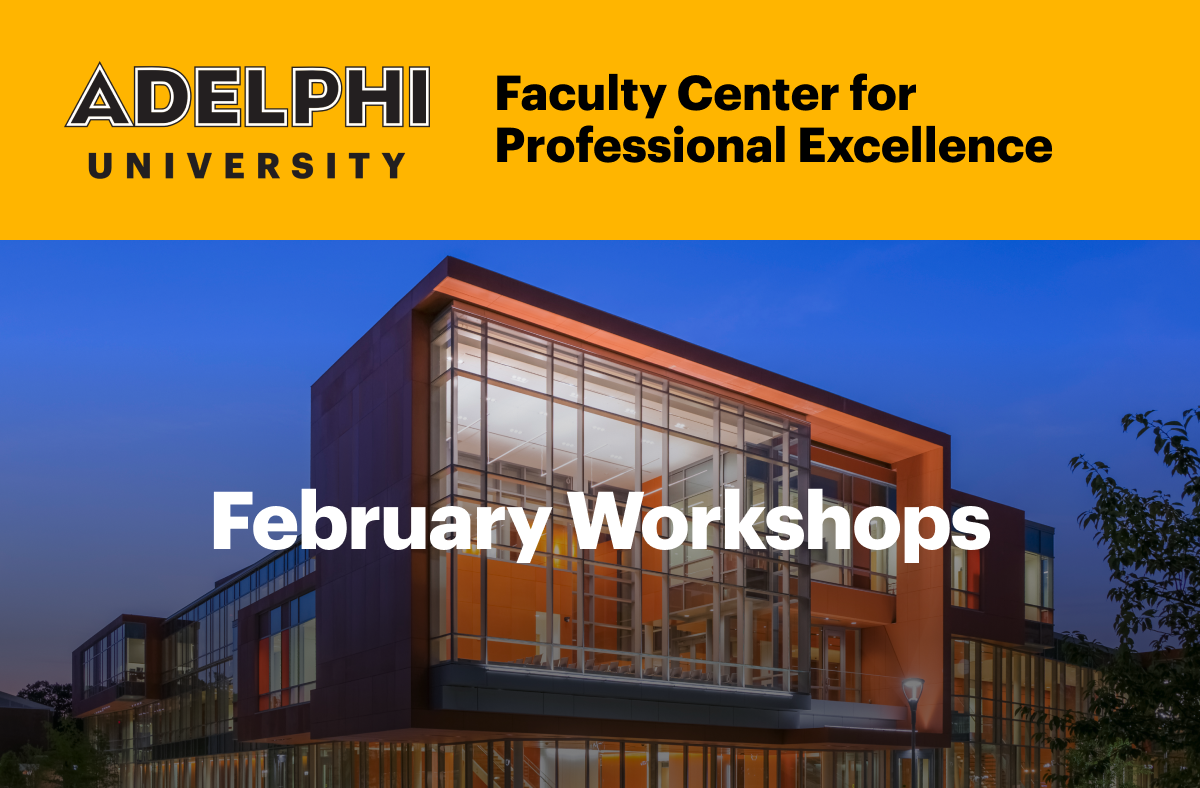
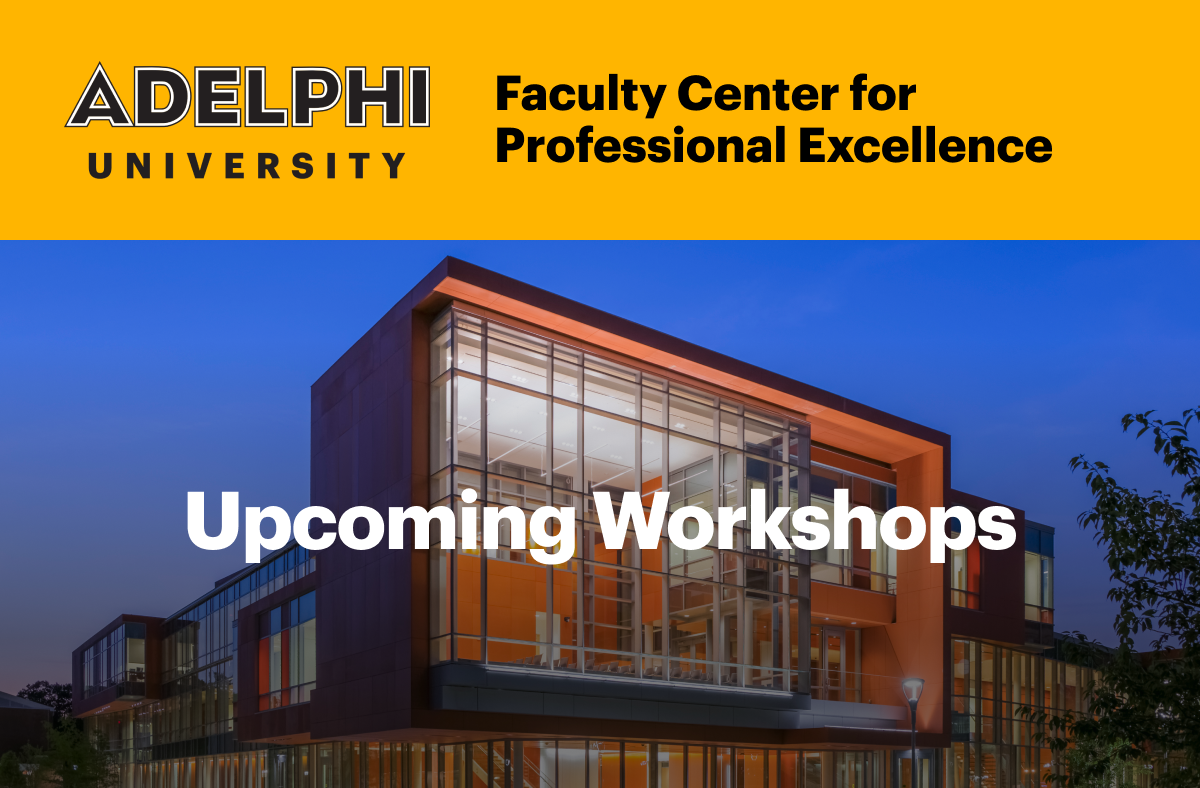
changed titles to old sheet content

Changed region(s): [[0.1542, 0.6091, 0.8633, 0.731]]

diff --git a/Workshops_February 25.html b/Workshops_February 25.html
@@ -46,7 +46,7 @@
               <table width="100%" border="0" cellpadding="0" cellspacing="0" class="container">
                 <tr>
                   <td align="center" style="padding: 0;">
-                    <img src="https://ucarecdn.com/f0478daf-9274-4de7-9bae-1804c537e8e9/-/resize/1200x/" alt="Adelphi University Logo and November workshops header image" style="width: 100%">
+                    <img src="https://ucarecdn.com/324cce82-e857-4836-95bf-a0d5fa575fc4/-/resize/1200x/" alt="Adelphi University Logo and November workshops header image" style="width: 100%">
                   </td>
                 </tr>
               </table>
@@ -72,13 +72,56 @@
               <p>Please refer to the <a href="https://www.adelphi.edu/academics/academic-calendar/" target="_blank">Academic Calendar</a> for important dates, and check <a href="https://www.adelphi.edu/events/?filters[tag]=faculty-center-for-professional-excellence" target="_blank">FCPE’s event page</a> regularly for updates and new workshops.</p>
 
               <p>We look forward to seeing you at our workshops and around Alumnae, and supporting you throughout the semester.</p>
-              <hr>
               <!--End Blurb--->
 
+                               <!--Begin ID Open Hours Section -->
+                               <hr>
+                               <h1>Open Hours</h1>
+                               <h2 style="line-height: 1.5em;">Unpacking the Why: Open Hours with Instructional Designers</h2>
+                               <p>
+                                 Join us for open-hour sessions with FCPE Instructional Designers and bring your pedagogical questions to the table. Our instructional designers collaborate with faculty as trusted partners, diving deep into the "whys" behind best practices to strengthen teaching and learning. Whether you're teaching in-person, online, or in a hybrid format, gain valuable insights on engaging students through thoughtful assignment and assessment design, and learn more about if, when, and how to choose the most effective educational technology tools. We’ll discuss the reasoning behind these decisions and share strategies for creating effective, inclusive learning experiences. Bring your questions and join the conversation!
+                              </p>
+             
+                              <h4 style="display: block;">Thursday, January 23 &#124; 12:00 PM &#124; Hybrid
+                              </h4>
+             
+                              <p>Andrew MacDonald, Instructional Designer
+                               <br>
+                               Marilena Orfanos, Instructional Designer
+                              </p>
+             
+                              <h4>Tuesday, January 28 &#124; 11:00 AM &#124; Hybrid</h4>
+                              <p>
+                               Jen Southard, Instructional Designer
+                               <br>
+                               Andrew MacDonald, Instructional Designer
+                              </p>
+             
+                              <h4>Thursday, January 30 &#124; 2:00 PM &#124; Virtual</h4>
+                              <p>
+                               Rui Huang, Instructional Designer</p>
+             
+                              <h4>Thursday, February 6th &#124; 11:00 AM &#124; Hybrid</h4>
+                              <p>Marilena Orfanos, Instructional Designer</p>
+             
+                              <h4>Friday, February 7 &#124; 1:00 PM &#124; Hybrid</h4>
+                              <p>
+                               Kevin Mobbs, Sr. Instructional Designer
+                               <br>
+                               Jen Southard, Instructional Designer
+                              </p>
+             
+                              <h4>Monday, February 17 &#124; 1:00 PM &#124; Virtual</h4>
+                              <p>Kevin Mobbs, Sr. Instructional Designer</p>
+             
+             
+                               <!--End ID Open Hours section -->
+
                <!--Begin Workshop Section -->
+               <hr>
                <h1>Workshops</h1>
                <h2 style="line-height: 1.5em;">OSCQR: Adelphi's Course Design Rubric</h2>
-               <h3>Friday, January 17, 2025 &#124; 10:00 AM</h3>
+               <h3>Friday, January 17 &#124; 10:00 AM</h3>
                <p>Virtual</p>
                <p><a href="https://docs.google.com/forms/d/e/1FAIpQLSeWbDnGC1uFXxjeRKEZeOSM2NJqijoKPyHHlKsl563PWMUoeQ/viewform?usp=sf_link&entry.2624655=OSCQR: Adelphi's Course Design Rubric  | January 17, 2025; 10:00 AM  [Virtual]" target="_blank" style="color: #ffffff; background-color: #000000; padding: .5rem 1rem; border-style: solid; border-color: #FFB500; border-width: .25rem; text-decoration: none; font-weight: bold; border-radius: .5em; box-shadow: 4px 4px 0 #9F9081;">Register</a>
                </p>
@@ -95,7 +138,7 @@
                  <!--Begin Workshop Section -->
                  <hr>
                  <h2 style="line-height: 1.5em;">Start-of-the-Semester Checklist</h2>
-                 <h3>Wednesday, January 22, 2025 &#124; 10:00 AM</h3>
+                 <h3>Wednesday, January 22 &#124; 10:00 AM</h3>
                  <p>Hybrid</p>
                  <!--<p><a href="https://docs.google.com/forms/d/e/1FAIpQLSeWbDnGC1uFXxjeRKEZeOSM2NJqijoKPyHHlKsl563PWMUoeQ/viewform?usp=sf_link&entry.2624655=OSCQR: Adelphi's Course Design Rubric  | January 17, 2025; 10:00 AM  [Virtual]" target="_blank" style="color: #ffffff; background-color: #000000; padding: .5rem 1rem; border-style: solid; border-color: #FFB500; border-width: .25rem; text-decoration: none; font-weight: bold; border-radius: .5em; box-shadow: 4px 4px 0 #9F9081;">Register</a>
                  </p>-->
@@ -109,8 +152,8 @@
 
                  <!--Begin Workshop Section -->
                  <hr>
-                 <h2 style="line-height: 1.5em;">Moodle Gradebook</h2>
-                 <h3>Wednesday, January 22, 2025 &#124; 10:00 AM</h3>
+                 <h2 style="line-height: 1.5em;">Moodle Gradebook: Seamless from the Start</h2>
+                 <h3>Wednesday, January 22 &#124; 10:00 AM</h3>
                  <p>Hybrid</p>
                  <!--<p><a href="https://docs.google.com/forms/d/e/1FAIpQLSeWbDnGC1uFXxjeRKEZeOSM2NJqijoKPyHHlKsl563PWMUoeQ/viewform?usp=sf_link&entry.2624655=OSCQR: Adelphi's Course Design Rubric  | January 17, 2025; 10:00 AM  [Virtual]" target="_blank" style="color: #ffffff; background-color: #000000; padding: .5rem 1rem; border-style: solid; border-color: #FFB500; border-width: .25rem; text-decoration: none; font-weight: bold; border-radius: .5em; box-shadow: 4px 4px 0 #9F9081;">Register</a>
                  </p>-->
@@ -125,7 +168,7 @@
                   <!--Begin Workshop Section -->
                   <!--<hr>
                   <h2 style="line-height: 1.5em;">General Tech Tutorial</h2>
-                  <h3>Monday, February 10th, 2025, &#124; 1:00 PM</h3>
+                  <h3>Monday, February 10th, &#124; 1:00 PM</h3>
                   <p>Virtual</p>
                   <p><a href="https://docs.google.com/forms/d/e/1FAIpQLSeWbDnGC1uFXxjeRKEZeOSM2NJqijoKPyHHlKsl563PWMUoeQ/viewform?usp=sf_link&entry.2624655=OSCQR: Adelphi's Course Design Rubric  | January 17, 2025; 10:00 AM  [Virtual]" target="_blank" style="color: #ffffff; background-color: #000000; padding: .5rem 1rem; border-style: solid; border-color: #FFB500; border-width: .25rem; text-decoration: none; font-weight: bold; border-radius: .5em; box-shadow: 4px 4px 0 #9F9081;">Register</a>
                   </p>
@@ -141,7 +184,7 @@
                     <!--Begin Workshop Section -->
                     <hr>
                     <h2 style="line-height: 1.5em;">Connecting Through Narrative: Digital Storytelling in the Classroom (Digital Storytelling I)</h2>
-                    <h3>Tuesday, February 11th, 2025 &#124; 1:30 PM</h3>
+                    <h3>Tuesday, February 11th &#124; 1:30 PM</h3>
                     <p>Virtual</p>
                     <!--<p><a href="https://docs.google.com/forms/d/e/1FAIpQLSeWbDnGC1uFXxjeRKEZeOSM2NJqijoKPyHHlKsl563PWMUoeQ/viewform?usp=sf_link&entry.2624655=OSCQR: Adelphi's Course Design Rubric  | January 17, 2025; 10:00 AM  [Virtual]" target="_blank" style="color: #ffffff; background-color: #000000; padding: .5rem 1rem; border-style: solid; border-color: #FFB500; border-width: .25rem; text-decoration: none; font-weight: bold; border-radius: .5em; box-shadow: 4px 4px 0 #9F9081;">Register</a>
                     </p>-->
@@ -156,7 +199,7 @@
                      <!--Begin Workshop Section -->
                      <hr>
                      <h2 style="line-height: 1.5em;">Turnitin Updates: Navigating Recent Changes</h3>
-                      <h3>Thursday, February 13th, 2025 &#124; 11:15 AM</h3>
+                      <h3>Thursday, February 13th &#124; 11:15 AM</h3>
                      <p>Hybrid</p>
                      <!--<p><a href="https://docs.google.com/forms/d/e/1FAIpQLSeWbDnGC1uFXxjeRKEZeOSM2NJqijoKPyHHlKsl563PWMUoeQ/viewform?usp=sf_link&entry.2624655=OSCQR: Adelphi's Course Design Rubric  | January 17, 2025; 10:00 AM  [Virtual]" target="_blank" style="color: #ffffff; background-color: #000000; padding: .5rem 1rem; border-style: solid; border-color: #FFB500; border-width: .25rem; text-decoration: none; font-weight: bold; border-radius: .5em; box-shadow: 4px 4px 0 #9F9081;">Register</a>
                      </p>-->
@@ -171,8 +214,8 @@
 
                      <!--Begin Workshop Section -->
                      <hr>
-                     <h2 style="line-height: 1.5em;">Moodle Gradebook</h3>
-                      <h3>Friday, February 14th, 2025 &#124; 11:00 AM</h3>
+                     <h2 style="line-height: 1.5em;">Moodle Gradebook: Seamless from the Start</h2>
+                      <h3>Friday, February 14th &#124; 11:00 AM</h3>
                      <p>Virtual</p>
                      <!--<p><a href="https://docs.google.com/forms/d/e/1FAIpQLSeWbDnGC1uFXxjeRKEZeOSM2NJqijoKPyHHlKsl563PWMUoeQ/viewform?usp=sf_link&entry.2624655=OSCQR: Adelphi's Course Design Rubric  | January 17, 2025; 10:00 AM  [Virtual]" target="_blank" style="color: #ffffff; background-color: #000000; padding: .5rem 1rem; border-style: solid; border-color: #FFB500; border-width: .25rem; text-decoration: none; font-weight: bold; border-radius: .5em; box-shadow: 4px 4px 0 #9F9081;">Register</a>
                      </p>-->
@@ -186,7 +229,7 @@
                       <!--Begin Workshop Section -->
                       <hr>
                       <h2 style="line-height: 1.5em;">Teaching with Qualtrics: Leveraging Surveys for Academic Research and Engagement</h3>
-                       <h3>Tuesday, February 21st, 2025 &#124; 11:00 AM</h3>
+                       <h3>Tuesday, February 21st &#124; 11:00 AM</h3>
                       <p>Virtual</p>
                       <!--<p><a href="https://docs.google.com/forms/d/e/1FAIpQLSeWbDnGC1uFXxjeRKEZeOSM2NJqijoKPyHHlKsl563PWMUoeQ/viewform?usp=sf_link&entry.2624655=OSCQR: Adelphi's Course Design Rubric  | January 17, 2025; 10:00 AM  [Virtual]" target="_blank" style="color: #ffffff; background-color: #000000; padding: .5rem 1rem; border-style: solid; border-color: #FFB500; border-width: .25rem; text-decoration: none; font-weight: bold; border-radius: .5em; box-shadow: 4px 4px 0 #9F9081;">Register</a>
                       </p>-->
@@ -200,7 +243,7 @@
                        <!--Begin Workshop Section -->
                        <hr>
                        <h2 style="line-height: 1.5em;">Teaching with Qualtrics: Leveraging Surveys for Academic Research and Engagement</h3>
-                        <h3>Thursday, February 27th, 2025 &#124; 2:30 PM</h3>
+                        <h3>Thursday, February 27th &#124; 2:30 PM</h3>
                        <p>Hybrid</p>
                        <!--<p><a href="https://docs.google.com/forms/d/e/1FAIpQLSeWbDnGC1uFXxjeRKEZeOSM2NJqijoKPyHHlKsl563PWMUoeQ/viewform?usp=sf_link&entry.2624655=OSCQR: Adelphi's Course Design Rubric  | January 17, 2025; 10:00 AM  [Virtual]" target="_blank" style="color: #ffffff; background-color: #000000; padding: .5rem 1rem; border-style: solid; border-color: #FFB500; border-width: .25rem; text-decoration: none; font-weight: bold; border-radius: .5em; box-shadow: 4px 4px 0 #9F9081;">Register</a>
                        </p>-->
@@ -217,7 +260,7 @@
                        <!--Begin Workshop Section -->
                        <hr>
                        <h2 style="line-height: 1.5em;">Digital Storytelling in Action: Exploring the Tech Behind the Narrative (Digital Storytelling II)</h3>
-                        <h3>Tuesday, March 4th, 2025 &#124; 1:30 PM</h3>
+                        <h3>Tuesday, March 4th &#124; 1:30 PM</h3>
                        <p>Virtual</p>
                        <!--<p><a href="https://docs.google.com/forms/d/e/1FAIpQLSeWbDnGC1uFXxjeRKEZeOSM2NJqijoKPyHHlKsl563PWMUoeQ/viewform?usp=sf_link&entry.2624655=OSCQR: Adelphi's Course Design Rubric  | January 17, 2025; 10:00 AM  [Virtual]" target="_blank" style="color: #ffffff; background-color: #000000; padding: .5rem 1rem; border-style: solid; border-color: #FFB500; border-width: .25rem; text-decoration: none; font-weight: bold; border-radius: .5em; box-shadow: 4px 4px 0 #9F9081;">Register</a>
                        </p>-->
@@ -233,48 +276,6 @@
 
                  <!--------------------- END WORKSHOPS------------------>
 
-                  <!--Begin ID Open Hours Section -->
-                  <hr>
-                  <h1>Open Hours</h1>
-                  <h2 style="line-height: 1.5em;">Unpacking the Why: Open Hours with Instructional Designers</h2>
-                  <p>
-                    Join us for open-hour sessions with FCPE Instructional Designers and bring your pedagogical questions to the table. Our instructional designers collaborate with faculty as trusted partners, diving deep into the "whys" behind best practices to strengthen teaching and learning. Whether you're teaching in-person, online, or in a hybrid format, gain valuable insights on engaging students through thoughtful assignment and assessment design, and learn more about if, when, and how to choose the most effective educational technology tools. We’ll discuss the reasoning behind these decisions and share strategies for creating effective, inclusive learning experiences. Bring your questions and join the conversation!
-                 </p>
-
-                 <h4 style="display: block;">Thursday, January 23, 2025 &#124; 12:00 PM &#124; Hybrid
-                 </h4>
-
-                 <p>Andrew MacDonald, Instructional Designer
-                  <br>
-                  Marilena Orfanos, Instructional Designer
-                 </p>
-
-                 <h4>Tuesday, January 28, 2025 &#124; 11:00 AM &#124; Hybrid</h4>
-                 <p>
-                  Jen Southard, Instructional Designer
-                  <br>
-                  Andrew MacDonald, Instructional Designer
-                 </p>
-
-                 <h4>Thursday, January 30, 2025 &#124; 2:00 PM &#124; Virtual</h4>
-                 <p>
-                  Rui Huang, Instructional Designer</p>
-
-                 <h4>Thursday, February 6th, 2025 &#124; 11:00 AM &#124; Hybrid</h4>
-                 <p>Marilena Orfanos, Instructional Designer</p>
-
-                 <h4>Friday, February 7, 2025 &#124; 1:00 PM &#124; Hybrid</h4>
-                 <p>
-                  Kevin Mobbs, Sr. Instructional Designer
-                  <br>
-                  Jen Southard, Instructional Designer
-                 </p>
-
-                 <h4>Monday, February 17, 2025 &#124; 1:00 PM &#124; Virtual</h4>
-                 <p>Kevin Mobbs, Sr. Instructional Designer</p>
-
-
-                  <!--End Workshop Section -->
 
               <!-- End Content-->
             </td>
